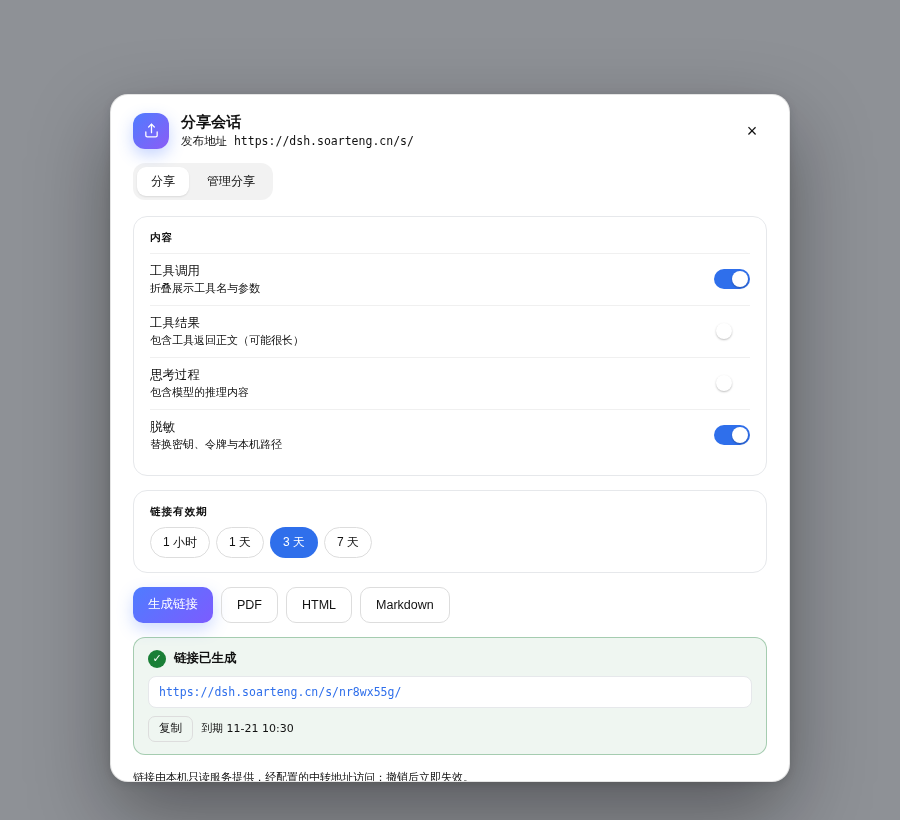
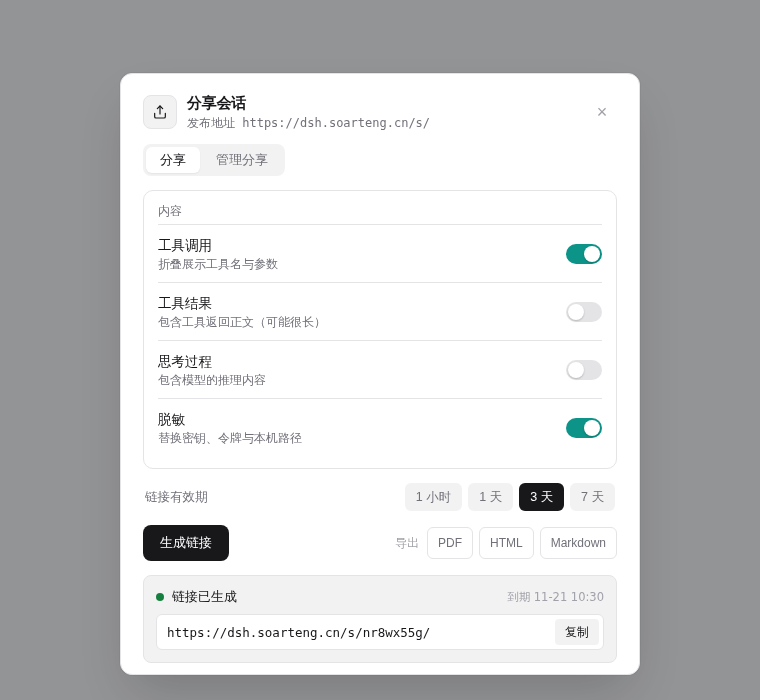
style(dsh-share-hub): 面板改为中性灰阶 + 曜石黑主操作（去蓝紫渐变）
- 删除蓝紫渐变、彩色光晕与渐变图标块；图标块改中性底 + 描边
- 面板 680→520px、圆角 18→12、内边距收敛，max-height 86vh 可滚动
- 主操作改主题反色（浅色黑底白字 / 深色白底黑字），悬停只提亮
- 开关关闭态轨道可见；有效期改为左标签右胶囊的单行
- 动作区左右分组：生成链接 | 导出 PDF/HTML/Markdown
- 结果卡改中性面 + 绿点状态 + URL 内联复制按钮

diff --git a/plugins/dsh-share-hub/client.js b/plugins/dsh-share-hub/client.js
@@ -19,75 +19,97 @@ window.__ModuleLoader__.load({
     const CSS_TAG_ID = 'dsh-share-hub/share.css'
 
     const CSS = [
-      '.sh_button{box-sizing:border-box;border:0;height:22px;border-radius:var(--dsw-radius-xs);background:var(--dsw-alias-fill-tsp-secondary);color:var(--dsw-alias-label-tertiary);font-size:12px;line-height:22px;padding:0 7px;gap:4px;display:inline-flex;align-items:center;white-space:nowrap;cursor:pointer;flex:none;transition:background .15s,color .15s}',
-      '@media (hover:hover){.sh_button:hover{background:var(--dsw-alias-interactive-bg-hover);color:var(--dsw-alias-label-secondary)}}',
-      '.sh_button:focus-visible{outline:2px solid var(--dsw-alias-state-business-primary);outline-offset:1px}',
+      // ---- 标题栏入口 ----
+      '.sh_button{box-sizing:border-box;border:0;height:22px;border-radius:6px;background:var(--dsw-alias-fill-tsp-secondary,rgba(127,127,127,.12));color:var(--dsw-alias-label-tertiary,#a1a1aa);font-size:12px;line-height:22px;padding:0 7px;gap:4px;display:inline-flex;align-items:center;white-space:nowrap;cursor:pointer;flex:none;transition:background .15s,color .15s}',
+      '@media (hover:hover){.sh_button:hover{background:var(--dsw-alias-interactive-bg-hover,rgba(127,127,127,.18));color:var(--dsw-alias-label-secondary,#71717a)}}',
+      '.sh_button:focus-visible{outline:2px solid var(--sh-accent,#0d9488);outline-offset:1px}',
 
-      '.sh_overlay{position:absolute;inset:0;z-index:60;display:flex;align-items:center;justify-content:center;padding:28px;background:rgba(10,12,18,.42);-webkit-backdrop-filter:blur(6px);backdrop-filter:blur(6px);animation:sh_fade .16s ease-out}',
+      // ---- 浮层与面板：中性灰阶，无渐变、无彩光 ----
+      '.sh_overlay{position:absolute;inset:0;z-index:60;display:flex;align-items:center;justify-content:center;padding:24px;background:rgba(9,9,11,.38);-webkit-backdrop-filter:blur(4px);backdrop-filter:blur(4px);animation:sh_fade .15s ease-out}',
       '@keyframes sh_fade{from{opacity:0}to{opacity:1}}',
-      '@keyframes sh_rise{from{opacity:0;transform:translateY(8px) scale(.99)}to{opacity:1;transform:none}}',
-      '.sh_panel{box-sizing:border-box;width:min(680px,100%);max-height:min(84vh,760px);display:flex;flex-direction:column;border-radius:18px;overflow:hidden;background:var(--dsw-alias-bg-base,#fff);color:var(--dsw-alias-label-primary,#111);border:1px solid color-mix(in srgb,var(--dsw-alias-border-l2,#ddd) 80%,transparent);box-shadow:0 32px 80px rgba(0,0,0,.38),0 2px 8px rgba(0,0,0,.12);animation:sh_rise .18s cubic-bezier(.2,.8,.2,1)}',
+      '@keyframes sh_rise{from{opacity:0;transform:translateY(6px)}to{opacity:1;transform:none}}',
+      '.sh_panel{--sh-bg:var(--dsw-alias-bg-base,#fff);--sh-surface:var(--dsw-alias-fill-tsp-secondary,rgba(127,127,127,.1));--sh-hover:var(--dsw-alias-interactive-bg-hover,rgba(127,127,127,.16));--sh-border:var(--dsw-alias-border-l2,#e4e4e7);--sh-text:var(--dsw-alias-label-primary,#18181b);--sh-text-2:var(--dsw-alias-label-secondary,#71717a);--sh-text-3:var(--dsw-alias-label-tertiary,#a1a1aa);--sh-primary:var(--dsw-alias-label-primary,#18181b);--sh-primary-fg:var(--dsw-alias-bg-base,#fff);--sh-accent:#0d9488;--sh-success:#15803d;--sh-mono:var(--dsw-font-mono,ui-monospace,SFMono-Regular,Menlo,Consolas,monospace);box-sizing:border-box;width:min(520px,94vw);max-height:min(86vh,780px);display:flex;flex-direction:column;border-radius:12px;overflow:hidden;background:var(--sh-bg);color:var(--sh-text);border:1px solid var(--sh-border);box-shadow:0 24px 48px -12px rgba(0,0,0,.18),0 0 0 1px rgba(0,0,0,.04);animation:sh_rise .16s cubic-bezier(.2,.8,.2,1)}',
+      'body[data-ds-dark-theme] .sh_panel{--sh-accent:#14b8a6;--sh-success:#34d399;box-shadow:0 24px 48px -12px rgba(0,0,0,.6),0 0 0 1px rgba(255,255,255,.08)}',
+      '@media (prefers-color-scheme:dark){body:not([data-ds-dark-theme]) .sh_panel{box-shadow:0 24px 48px -12px rgba(0,0,0,.6),0 0 0 1px rgba(255,255,255,.08)}}',
       '@media (prefers-reduced-motion:reduce){.sh_overlay,.sh_panel{animation:none}}',
 
-      '.sh_head{display:flex;align-items:center;gap:12px;padding:18px 22px 14px}',
-      '.sh_icon{width:36px;height:36px;flex:none;border-radius:12px;display:grid;place-items:center;color:#fff;background:linear-gradient(135deg,#4f7cff,#8b5cf6);box-shadow:0 6px 16px rgba(79,124,255,.32)}',
+      // ---- 头部 ----
+      '.sh_head{display:flex;align-items:center;gap:10px;padding:18px 22px 12px}',
+      '.sh_icon{width:32px;height:32px;flex:none;border-radius:8px;display:grid;place-items:center;background:var(--sh-surface);border:1px solid var(--sh-border);color:var(--sh-text)}',
       '.sh_titles{flex:1;min-width:0}',
-      '.sh_title{font-size:15px;font-weight:650;letter-spacing:.01em}',
-      '.sh_sub{font-size:11.5px;color:var(--dsw-alias-label-tertiary);margin-top:2px;font-family:var(--dsw-font-mono,ui-monospace,monospace);white-space:nowrap;overflow:hidden;text-overflow:ellipsis}',
-      '.sh_close{width:30px;height:30px;border:0;border-radius:9px;background:transparent;color:var(--dsw-alias-label-tertiary);cursor:pointer;font-size:18px;line-height:1;display:grid;place-items:center}',
-      '.sh_close:hover{background:var(--dsw-alias-interactive-bg-hover);color:var(--dsw-alias-label-primary)}',
+      '.sh_title{font-size:15px;font-weight:600;line-height:22px;letter-spacing:-.01em}',
+      '.sh_sub{font-size:12px;line-height:18px;color:var(--sh-text-2);font-family:var(--sh-mono);white-space:nowrap;overflow:hidden;text-overflow:ellipsis}',
+      '.sh_close{width:30px;height:30px;flex:none;border:0;border-radius:7px;background:transparent;color:var(--sh-text-3);cursor:pointer;font-size:18px;line-height:1;display:grid;place-items:center;transition:background .15s,color .15s}',
+      '.sh_close:hover{background:var(--sh-hover);color:var(--sh-text)}',
 
-      '.sh_tabs{display:flex;gap:4px;margin:0 22px;padding:4px;border-radius:12px;background:var(--dsw-alias-fill-tsp-secondary,rgba(127,127,127,.1));width:fit-content}',
-      '.sh_tab{border:0;background:transparent;color:var(--dsw-alias-label-tertiary);cursor:pointer;padding:6px 14px;border-radius:9px;font-size:12px;font-weight:500;transition:background .15s,color .15s}',
-      '.sh_tab.on{background:var(--dsw-alias-bg-base,#fff);color:var(--dsw-alias-label-primary);box-shadow:0 1px 2px rgba(0,0,0,.1)}',
+      // ---- 分段 tab ----
+      '.sh_tabs{display:flex;gap:2px;margin:0 22px;padding:3px;box-sizing:border-box;height:32px;border-radius:8px;background:var(--sh-surface);width:fit-content}',
+      '.sh_tab{border:0;background:transparent;color:var(--sh-text-2);cursor:pointer;height:26px;padding:0 14px;border-radius:6px;font-size:13px;font-weight:500;transition:background .15s,color .15s}',
+      '.sh_tab.on{background:var(--sh-bg);color:var(--sh-text);box-shadow:0 1px 2px rgba(0,0,0,.06)}',
 
-      '.sh_body{padding:16px 22px 22px;overflow:auto;display:flex;flex-direction:column;gap:14px}',
-      '.sh_card{border:1px solid var(--dsw-alias-border-l2,#e6e8eb);border-radius:14px;padding:14px 16px;background:var(--dsw-alias-bg-base,#fff)}',
-      '.sh_card-title{font-size:10.5px;letter-spacing:.1em;text-transform:uppercase;color:var(--dsw-alias-label-tertiary);margin-bottom:8px;font-weight:600}',
+      // ---- 主体 ----
+      '.sh_body{padding:14px 22px 20px;overflow:auto;display:flex;flex-direction:column;gap:14px}',
+      '.sh_card{border:1px solid var(--sh-border);border-radius:10px;padding:12px 14px;background:var(--sh-bg)}',
+      '.sh_card-title{font-size:12px;font-weight:500;color:var(--sh-text-2);margin-bottom:4px}',
 
-      '.sh_switchrow{display:flex;align-items:center;gap:12px;padding:9px 0;border-top:1px solid var(--dsw-alias-border-l2,#f0f0f0)}',
-      '.sh_switchrow:first-of-type{border-top:0;padding-top:2px}',
+      // ---- 开关行 ----
+      '.sh_switchrow{display:flex;align-items:center;gap:12px;padding:10px 0;border-top:1px solid var(--sh-border)}',
+      '.sh_switchrow:first-of-type{border-top:0}',
       '.sh_switchtext{flex:1;min-width:0}',
-      '.sh_switchlabel{font-size:12.5px;color:var(--dsw-alias-label-primary)}',
-      '.sh_switchdesc{font-size:11px;color:var(--dsw-alias-label-tertiary);margin-top:1px}',
-      '.sh_switch{position:relative;width:36px;height:20px;flex:none;border-radius:999px;background:color-mix(in srgb,var(--dsw-alias-label-tertiary) 35%,transparent);cursor:pointer;transition:background .18s}',
-      '.sh_switch.on{background:var(--dsw-alias-state-business-primary,#2f6feb)}',
-      '.sh_switch .knob{position:absolute;top:2px;left:2px;width:16px;height:16px;border-radius:50%;background:#fff;box-shadow:0 1px 2px rgba(0,0,0,.25);transition:transform .18s}',
+      '.sh_switchlabel{font-size:13.5px;font-weight:500;line-height:20px;color:var(--sh-text)}',
+      '.sh_switchdesc{font-size:12px;line-height:16px;color:var(--sh-text-2);margin-top:1px}',
+      '.sh_switch{position:relative;width:36px;height:20px;flex:none;border-radius:999px;background:var(--sh-border);cursor:pointer;transition:background .16s ease}',
+      '.sh_switch.on{background:var(--sh-accent)}',
+      '.sh_switch .knob{position:absolute;top:2px;left:2px;width:16px;height:16px;border-radius:50%;background:#fff;box-shadow:0 1px 2px rgba(0,0,0,.2);transition:transform .16s ease}',
       '.sh_switch.on .knob{transform:translateX(16px)}',
       '.sh_switch input{position:absolute;opacity:0;inset:0;cursor:pointer}',
 
+      // ---- 有效期行 ----
+      '.sh_row{display:flex;align-items:center;justify-content:space-between;gap:12px;padding:0 2px}',
+      '.sh_rowlabel{font-size:12.5px;font-weight:500;color:var(--sh-text-2)}',
       '.sh_chips{display:flex;gap:6px;flex-wrap:wrap}',
-      '.sh_chip{border:1px solid var(--dsw-alias-border-l2,#ddd);background:transparent;color:var(--dsw-alias-label-secondary);border-radius:999px;padding:6px 12px;font-size:12px;cursor:pointer;transition:all .15s}',
-      '.sh_chip:hover{background:var(--dsw-alias-interactive-bg-hover)}',
-      '.sh_chip.on{background:var(--dsw-alias-state-business-primary,#2f6feb);border-color:transparent;color:#fff}',
+      '.sh_chip{height:28px;padding:0 10px;border-radius:6px;border:1px solid transparent;background:var(--sh-surface);color:var(--sh-text-2);font-size:12.5px;font-weight:500;cursor:pointer;transition:background .15s,color .15s}',
+      '.sh_chip:hover{background:var(--sh-hover)}',
+      '.sh_chip.on{background:var(--sh-primary);color:var(--sh-primary-fg)}',
 
-      '.sh_actions{display:flex;gap:8px;flex-wrap:wrap}',
-      '.sh_btn{box-sizing:border-box;height:36px;padding:0 15px;border-radius:10px;border:1px solid var(--dsw-alias-border-l2,#ddd);background:transparent;color:var(--dsw-alias-label-primary);font-size:12.5px;font-weight:500;cursor:pointer;display:inline-flex;align-items:center;gap:6px;text-decoration:none;transition:all .15s}',
-      '.sh_btn:hover{background:var(--dsw-alias-interactive-bg-hover)}',
+      // ---- 动作区 ----
+      '.sh_actions{display:flex;align-items:center;justify-content:space-between;gap:12px;flex-wrap:wrap}',
+      '.sh_exports{display:flex;align-items:center;gap:6px}',
+      '.sh_exportlabel{font-size:12px;color:var(--sh-text-3);margin-right:2px}',
+      '.sh_btn{box-sizing:border-box;height:36px;padding:0 16px;border-radius:8px;border:1px solid transparent;background:transparent;color:var(--sh-text);font-size:13px;font-weight:500;cursor:pointer;display:inline-flex;align-items:center;gap:6px;text-decoration:none;transition:background .15s,color .15s,filter .15s}',
       '.sh_btn:disabled{opacity:.45;cursor:default}',
-      '.sh_btn.primary{background:linear-gradient(135deg,#4f7cff,#7c5cff);border:0;color:#fff;box-shadow:0 6px 16px rgba(79,124,255,.28)}',
-      '.sh_btn.primary:hover{filter:brightness(1.05)}',
+      '.sh_btn.primary{background:var(--sh-primary);color:var(--sh-primary-fg)}',
+      '.sh_btn.primary:hover:not(:disabled){filter:brightness(1.12)}',
+      '.sh_btn.ghost{height:32px;padding:0 10px;border-radius:6px;border-color:var(--sh-border);color:var(--sh-text-2);font-size:12px}',
+      '.sh_btn.ghost:hover:not(:disabled){background:var(--sh-surface);color:var(--sh-text)}',
 
-      '.sh_spin{width:12px;height:12px;border-radius:50%;border:2px solid rgba(255,255,255,.45);border-top-color:#fff;animation:sh_spin .7s linear infinite}',
+      '.sh_spin{width:12px;height:12px;border-radius:50%;border:2px solid currentColor;border-top-color:transparent;animation:sh_spin .7s linear infinite;opacity:.8}',
       '@keyframes sh_spin{to{transform:rotate(360deg)}}',
 
-      '.sh_result{border:1px solid color-mix(in srgb,var(--dsw-alias-state-success-primary,#1a7f37) 35%,transparent);background:color-mix(in srgb,var(--dsw-alias-state-success-primary,#1a7f37) 7%,transparent);border-radius:12px;padding:12px 14px;display:flex;flex-direction:column;gap:8px;font-size:12.5px}',
-      '.sh_result-head{display:flex;align-items:center;gap:8px;font-weight:600}',
-      '.sh_badge{width:18px;height:18px;border-radius:50%;background:var(--dsw-alias-state-success-primary,#1a7f37);color:#fff;display:grid;place-items:center;font-size:11px}',
-      '.sh_linkbox{font-family:var(--dsw-font-mono,ui-monospace,monospace);font-size:11.5px;background:var(--dsw-alias-bg-base,#fff);border:1px solid var(--dsw-alias-border-l2,#e6e8eb);border-radius:8px;padding:8px 10px;word-break:break-all;color:var(--dsw-alias-label-secondary)}',
-      '.sh_linkbox a{color:var(--dsw-alias-state-business-primary,#2f6feb);text-decoration:none}',
-      '.sh_meta{display:flex;align-items:center;gap:8px;flex-wrap:wrap;color:var(--dsw-alias-label-tertiary);font-size:11px}',
-      '.sh_mini{height:26px;padding:0 10px;border-radius:7px;font-size:11.5px;border:1px solid var(--dsw-alias-border-l2,#ddd);background:transparent;color:var(--dsw-alias-label-primary);cursor:pointer;text-decoration:none;display:inline-flex;align-items:center}',
-      '.sh_mini:hover{background:var(--dsw-alias-interactive-bg-hover)}',
+      // ---- 结果卡 ----
+      '.sh_result{border:1px solid var(--sh-border);border-radius:8px;padding:12px;background:var(--sh-surface,rgba(127,127,127,.06));display:flex;flex-direction:column;gap:8px}',
+      '.sh_result-head{display:flex;align-items:center;gap:8px;font-size:13px;font-weight:500;color:var(--sh-text)}',
+      '.sh_dot{width:8px;height:8px;border-radius:50%;background:var(--sh-success);flex:none}',
+      '.sh_urlrow{display:flex;align-items:center;gap:6px;height:34px;padding:0 4px 0 10px;border:1px solid var(--sh-border);border-radius:6px;background:var(--sh-bg)}',
+      '.sh_url{flex:1;min-width:0;font-family:var(--sh-mono);font-size:12.5px;white-space:nowrap;overflow:hidden;text-overflow:ellipsis}',
+      '.sh_url a{color:var(--sh-text);text-decoration:none}',
+      '.sh_url a:hover{text-decoration:underline}',
+      '.sh_copy{height:26px;padding:0 10px;border:0;border-radius:4px;background:var(--sh-surface);color:var(--sh-text);font-size:12px;font-weight:500;cursor:pointer}',
+      '.sh_copy:hover{background:var(--sh-hover)}',
+      '.sh_meta{display:flex;align-items:center;gap:8px;flex-wrap:wrap;color:var(--sh-text-3);font-size:11.5px}',
 
-      '.sh_item{display:flex;align-items:center;gap:10px;padding:11px 12px;border:1px solid var(--dsw-alias-border-l2,#e6e8eb);border-radius:12px;font-size:12px;transition:background .15s}',
-      '.sh_item:hover{background:var(--dsw-alias-interactive-bg-hover)}',
+      // ---- 管理列表 ----
+      '.sh_item{display:flex;align-items:center;gap:8px;padding:11px 12px;border:1px solid var(--sh-border);border-radius:8px;font-size:12.5px;transition:background .15s}',
+      '.sh_item:hover{background:var(--sh-surface)}',
       '.sh_item .grow{flex:1;min-width:0;overflow:hidden;text-overflow:ellipsis;white-space:nowrap}',
-      '.sh_muted{color:var(--dsw-alias-label-tertiary)}',
-      '.sh_err{color:var(--dsw-alias-state-danger-primary,#d33);font-size:12px}',
-      '.sh_empty{color:var(--dsw-alias-label-tertiary);font-size:12px;padding:10px 2px}',
-      '.sh_note{color:var(--dsw-alias-label-tertiary);font-size:11px;line-height:1.65}',
-      '.sh_note code{font-family:var(--dsw-font-mono,ui-monospace,monospace);background:var(--dsw-alias-fill-tsp-secondary,rgba(127,127,127,.12));padding:1px 5px;border-radius:4px}'
+      '.sh_mini{height:26px;padding:0 9px;border-radius:5px;font-size:11.5px;font-weight:500;border:1px solid var(--sh-border);background:transparent;color:var(--sh-text-2);cursor:pointer;text-decoration:none;display:inline-flex;align-items:center}',
+      '.sh_mini:hover{background:var(--sh-surface);color:var(--sh-text)}',
+
+      '.sh_muted{color:var(--sh-text-3)}',
+      '.sh_err{color:var(--dsw-alias-state-danger-primary,#e11d48);font-size:12px}',
+      '.sh_empty{color:var(--sh-text-2);font-size:12.5px;padding:10px 2px}',
+      '.sh_note{color:var(--sh-text-3);font-size:11.5px;line-height:1.7}',
+      '.sh_note code{font-family:var(--sh-mono);background:var(--sh-surface);padding:1px 5px;border-radius:4px}'
     ].join('')
 
     const DICT = {
@@ -422,36 +444,40 @@ window.__ModuleLoader__.load({
             switchRow('includeReasoning', t('reasoning'), t('reasoningDesc')),
             switchRow('redact', t('redact'), t('redactDesc'))
           ),
-          react.createElement('div', { className: 'sh_card', key: 'ttl' },
-            react.createElement('div', { className: 'sh_card-title' }, t('ttl')),
+          react.createElement('div', { className: 'sh_row', key: 'ttl' },
+            react.createElement('span', { className: 'sh_rowlabel' }, t('ttl')),
             chips()
           ),
           react.createElement('div', { className: 'sh_actions', key: 'actions' },
             button(busy === 'link' ? t('working') : t('makeLink'), 'primary', createLink, busy === 'link'),
-            button(busy === 'pdf' ? t('working') : t('exportPdf'), 'ghost', () => exportFile('pdf'), busy === 'pdf'),
-            button(busy === 'html' ? t('working') : t('exportHtml'), 'ghost', () => exportFile('html'), busy === 'html'),
-            button(busy === 'markdown' ? t('working') : t('exportMd'), 'ghost', () => exportFile('markdown'), busy === 'markdown')
+            react.createElement('div', { className: 'sh_exports' },
+              react.createElement('span', { className: 'sh_exportlabel' }, t('export')),
+              button(busy === 'pdf' ? t('working') : t('exportPdf'), 'ghost', () => exportFile('pdf'), busy === 'pdf'),
+              button(busy === 'html' ? t('working') : t('exportHtml'), 'ghost', () => exportFile('html'), busy === 'html'),
+              button(busy === 'markdown' ? t('working') : t('exportMd'), 'ghost', () => exportFile('markdown'), busy === 'markdown')
+            )
           ),
           error === '' ? null : react.createElement('div', { className: 'sh_err', key: 'err' }, error),
           result === null ? null : result.kind === 'link'
             ? react.createElement('div', { className: 'sh_result', key: 'result' },
               react.createElement('div', { className: 'sh_result-head' },
-                react.createElement('span', { className: 'sh_badge' }, '✓'), t('linkReady')
+                react.createElement('span', { className: 'sh_dot' }), t('linkReady'),
+                react.createElement('span', { className: 'sh_meta', style: { marginLeft: 'auto' } }, `${t('expires')} ${shortTime(result.expiresAt)}`)
               ),
-              react.createElement('div', { className: 'sh_linkbox' },
-                react.createElement('a', { href: result.url, target: '_blank', rel: 'noreferrer' }, result.url)
-              ),
-              react.createElement('div', { className: 'sh_meta' },
-                react.createElement('button', { className: 'sh_mini', onClick: () => copy(result.url, result.id) }, copied === result.id ? t('copied') : t('copy')),
-                react.createElement('span', null, `${t('expires')} ${shortTime(result.expiresAt)}`)
+              react.createElement('div', { className: 'sh_urlrow' },
+                react.createElement('div', { className: 'sh_url' },
+                  react.createElement('a', { href: result.url, target: '_blank', rel: 'noreferrer' }, result.url)
+                ),
+                react.createElement('button', { className: 'sh_copy', onClick: () => copy(result.url, result.id) }, copied === result.id ? t('copied') : t('copy'))
               )
             )
             : react.createElement('div', { className: 'sh_result', key: 'result' },
               react.createElement('div', { className: 'sh_result-head' },
-                react.createElement('span', { className: 'sh_badge' }, '✓'), `${t('fileReady')} · ${humanSize(result.bytes)}`
+                react.createElement('span', { className: 'sh_dot' }), `${t('fileReady')} · ${humanSize(result.bytes)}`
               ),
-              react.createElement('div', { className: 'sh_meta' },
-                react.createElement('a', { className: 'sh_mini', href: result.url, download: result.name }, `${t('download')} ${result.name}`)
+              react.createElement('div', { className: 'sh_urlrow' },
+                react.createElement('div', { className: 'sh_url' }, result.name),
+                react.createElement('a', { className: 'sh_copy', href: result.url, download: result.name }, t('download'))
               )
             ),
           react.createElement('div', { className: 'sh_note', key: 'note' }, t('linkHint'), react.createElement('br'), t('exportHint'))

diff --git a/plugins/dsh-share-hub/STATE.md b/plugins/dsh-share-hub/STATE.md
@@ -2,6 +2,25 @@
 
 > 本文件是插件的现状权威；行为变化先改这里，再改 README。
 
+## 2026-11-19 · 0.2.1 面板视觉重做（去蓝紫）
+
+**背景**：用户反馈面板「古老、不现代」，并明确不要蓝紫配色。按 Gemini 4 Argon 的设计评审落地，
+方向是「Zinc 灰阶 + 曜石黑主操作 + 松石绿点缀」，参考 Linear / Raycast / Vercel 的设置面板。
+
+**改动**（全部在 `client.js` 的 CSS 与标记）：
+
+- 删除蓝紫渐变、彩色光晕与渐变图标块；图标块改为 32×32 中性底 + 1px 描边。
+- 面板宽度 680 → `min(520px,94vw)`，圆角 18 → 12，内边距收到 20/24；`max-height:86vh` 滚动。
+- 主操作按钮改为「曜石黑底 / 主题反色文字」（深色主题下自动反转），悬停只提亮，无阴影彩光。
+- 开关：关闭态轨道用可见的 `--sh-border`（此前几乎与白底同色，像坏控件），开启态松石绿。
+- tab 槽 32px、tab 26px、6px 圆角；有效期从独立卡片改为「左标签 + 右胶囊」一行，胶囊去椭圆改 6px 圆角。
+- 动作区左右分组：左「生成链接」，右「导出 PDF / HTML / Markdown」，次按钮 32px 边框型。
+- 结果卡改为中性面 + 绿色小圆点状态 + 「URL 输入框内联复制按钮」两行结构，不再用浅绿大色块。
+- 深色模式：`body[data-ds-dark-theme]` 下换松石绿/成功色并补一圈内发光描边；宿主变量全部带兜底。
+- 字号阶梯收敛：标题 15/600、列表项 13.5/500、说明 12/400、按钮 13/500。
+
+**验证**：用同一份 CSS 与 DOM 渲染静态预览截图目检（docs/panel-preview.png）；角色注册模拟通过；离线 19/19。
+
 ## 2026-11-18 · 0.2.0 面板现代化 + 分享服务器配置项
 
 **面板**：标题栏按钮不变；浮层重做——毛玻璃遮罩、圆角 18px 卡片、渐变图标块、
